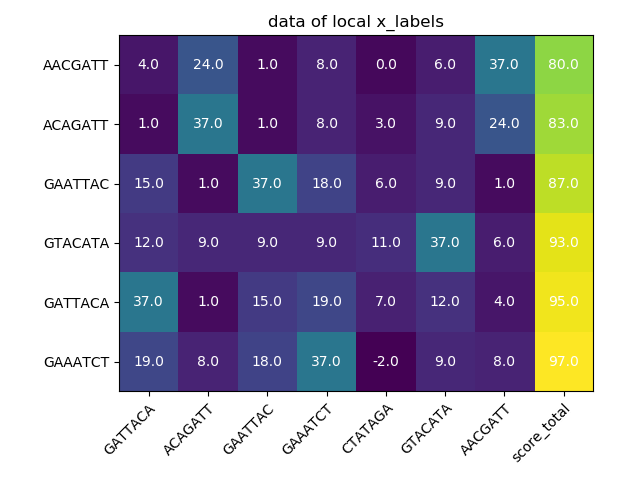
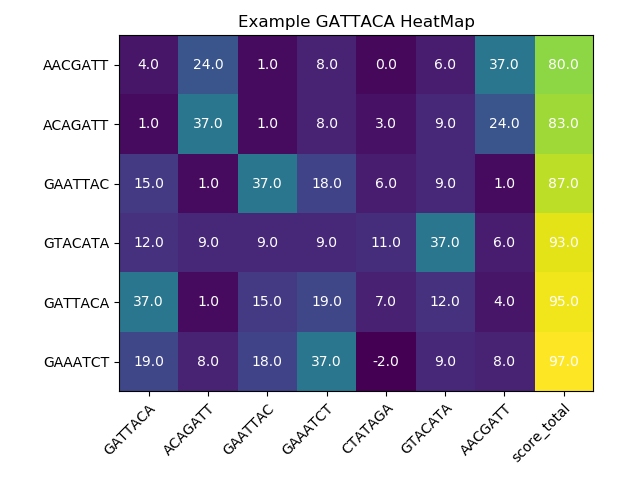
add

Changed region(s): [[0.375, 0.0312, 0.75, 0.0625]]

diff --git a/HeatMap4kmeRs/heatmap.py b/HeatMap4kmeRs/heatmap.py
@@ -16,7 +16,6 @@ import matplotlib.pyplot as plt
 # Function takes as an argument the filename and directory 
 # and returns pandas' dataframe
 
-
 def read_file(filename = ""):
 
     if os.path.isfile(filename) and os.access(filename, os.R_OK):
@@ -33,11 +32,11 @@ def read_file(filename = ""):
     
     return file_dataframe
 
-#Function takes as an argument .. and returns pandas' dataframe
 
-def quick_heatmap(file_dataframe):
+# Prepare data function takes as an argument the read_file() function
+# output and returns list of dataframe
 
-# Prepare data
+def prepare_data(file_dataframe):
 
     # x axis labels - columns names
     x_labels = file_dataframe.columns
@@ -47,6 +46,34 @@ def quick_heatmap(file_dataframe):
 
     # data to the heatmap plot
     data = file_dataframe.values
+
+    return [x_labels, y_labels, data]
+
+
+# Save heatmap in location defined by filename 
+
+def save_or_show_heatmap(plt, show = True, file_name = ""):
+
+    # Show = True
+    if show == True:
+        plt.show()
+    if show == False:
+        plt.savefig(file_name)
+    return ""
+
+
+# Prepare data function takes as an argument the read_file() function
+# output and returns list of dataframe
+
+def quick_heatmap(file_dataframe, title = "Example GATTACA HeatMap", file_name = ""):
+
+# Prepare data
+    
+    x = prepare_data(file_dataframe)
+
+    x_labels = x[0]
+    y_labels = x[1]
+    data = x[2]
 
 # Prepare HeatMap
 
@@ -69,11 +96,11 @@ def quick_heatmap(file_dataframe):
         for j in range(len(x_labels)):
             ax.text(j, i, data[i, j],ha="center", va="center", color="w")
 
-    ax.set_title("data of local x_labels")
+    ax.set_title(title)
     fig.tight_layout()
 
 # Save or show the plot
 
-    plt.show()
+    save_or_show_heatmap(plt, True, file_name)
 
     return "Done!" 
